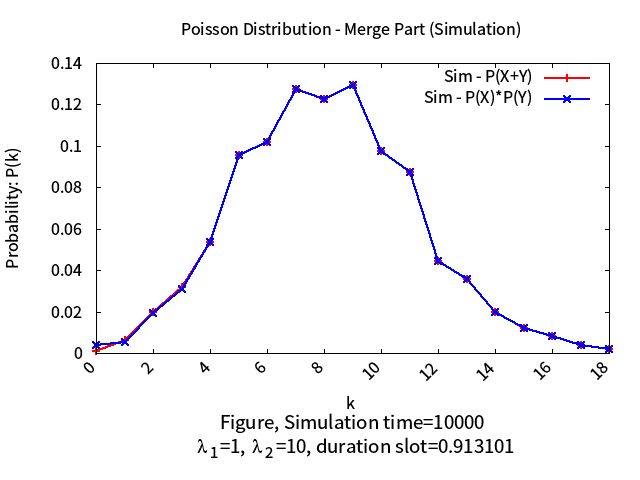
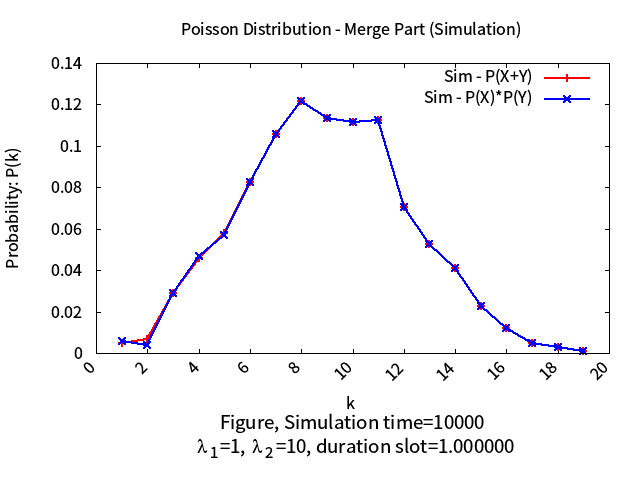
Add current work.
===
DONE:
* Adjust scale parameter.
* Add working mechanism of class event_list.
* delete dead code and comment it: part_a.cc

===
TODO:
* Pepare to rearrange /res , make image resource more readable.
* delete dead code and comment it: part_b.cc

diff --git a/poisson_distribution/part_a.cc b/poisson_distribution/part_a.cc
@@ -7,6 +7,7 @@
 #include "../utils/event.h"
 
 int main(int argc,char *argv[]) {
+  // ===================================== Getting User Input (by parse_arg) =====================================
   // create parsing args object
   parse_args *args = new parse_args();
   // set rules
@@ -16,7 +17,7 @@ int main(int argc,char *argv[]) {
   args->set_args_rules("s","simulation times","10000","int");
   // parse it!
   args->parsing(argc,argv);
-
+  // get result
   int upperbound = std::atoi(args->get_args_val("k").val.c_str());
   int lambda1 = std::atoi(args->get_args_val("1").val.c_str());
   int lambda2 = std::atoi(args->get_args_val("2").val.c_str());
@@ -44,8 +45,6 @@ int main(int argc,char *argv[]) {
     fprintf(fp,"%d %lf %lf\n",i,p_s,p_xy);
   }
 
-  // printf("%lf %lf %lf\n",poisson_rand_gen(lambda1),poisson_rand_gen(lambda2),poisson_rand_gen(lambda1+lambda2));
-
   // ===================================== Simulation Part =====================================
   int simulation_time = std::atoi(args->get_args_val("s").val.c_str());
 
@@ -57,39 +56,38 @@ int main(int argc,char *argv[]) {
   event_list *elist = new event_list();
   int rnt=simulation_time;
   FILE *fp_sim = fopen("output/part_a_sim.output","w+");
-  // init with one X, Y event
+
+  // init with one X, Y event respectively
   event_type X,Y,S;
   elist->set(0,std::string("X"));
   elist->set(0,std::string("Y"));
 
   // Scheduling S=X+Y
   while(rnt) {
-    // pop out
+    // pop out latest event 
     if(elist->get(S)) {
+      // Generate a timestamp from exponential random variable
       if(S.type=="X") {
-        // elist->set(gen->exponential(lambda1),std::string("X"));
         elist->set(dist_1(generator),std::string("X"));
-        //printf("X\n");
       } else if(S.type=="Y") {
-        // elist->set(gen->exponential(lambda2),std::string("Y"));
         elist->set(dist_2(generator),std::string("Y"));
-        //printf("Y\n");
       }
-      // record S
+      // record S, detail information please check out: https://github.com/kevinbird61/stochastic-calculus-and-probability-model/tree/master/utils#event
       elist->record(S);
       rnt--;
     }
   }
 
-  //printf("size: %d, current time: %lf\n",(int)elist->rec.size(),elist->rec.back().timestamp);
   // erase the init element
   elist->rec.erase(elist->rec.begin(),elist->rec.begin()+2);
 
   int count=0,count_x=0,count_y=0;
-  double slot=exp(-1.0/(lambda1+lambda2)),record_slot=slot,record_slot_x=slot,record_slot_y=slot;
+  double slot=1.0,record_slot=slot,record_slot_x=slot,record_slot_y=slot;
   std::map<int,int> counter,counter_x,counter_y;
 
+  // start event scheduling
   while(elist->rec.size()!=0) {
+    // fetch event from history record
     event_type tmp;
     tmp=elist->rec.front();
     elist->rec.erase(elist->rec.begin(),elist->rec.begin()+1);
@@ -101,7 +99,7 @@ int main(int argc,char *argv[]) {
       counter[count]++;
       count=0;
     }
-    // And then do X mode
+    // And then do X event
     if(tmp.type=="X") {
       if(tmp.timestamp<=record_slot_x)
         count_x++;
@@ -111,6 +109,7 @@ int main(int argc,char *argv[]) {
         count_x=0;
       }
     }
+    // Then the Y event
     if(tmp.type=="Y") {
       if(tmp.timestamp<=record_slot_y)
         count_y++;
@@ -122,6 +121,7 @@ int main(int argc,char *argv[]) {
     }
   }
 
+  // flush the rest of record
   if(count!=0)
     counter[count]++;
   if(count_x!=0)
@@ -129,32 +129,30 @@ int main(int argc,char *argv[]) {
   if(count_y!=0)
     counter_y[count_y]++;
 
+  // reset and reuse
   count=0,count_x=0,count_y=0;
 
+  // calculate total event number, X, Y respectively
   for(auto&it : counter) {
     count+=it.second;
   }
-
   for(auto&it : counter_x) {
-    //printf("X: %d %d\n",it.first,it.second);
     count_x+=it.second;
   }
-
   for(auto&it : counter_y) {
-    //printf("Y: %d %d\n",it.first,it.second);
     count_y+=it.second;
   }
 
   // Record the parameter we use for this time
   fprintf(fp_sim,"# %d %d %d %lf %d %d %d\n",simulation_time,lambda1,lambda2,slot,count,count_x,count_y);
 
+  // Base on total event queue to calculate the result
   for(auto&it : counter) {
     double p_xy=0.0;
+    // S=X+Y, X:0~it.first, Y:it.first~0
     for(int i=0; i<=it.first; i++) {
-      // S=X+Y, X:0~it.first, Y:it.first~0
       p_xy+=((float)counter_x[i]/count_x)*((float)counter_y[it.first-i]/count_y);
     }
-
     fprintf(fp_sim,"%d %lf %lf\n",it.first,(float)it.second/count,p_xy);
   }
 

diff --git a/poisson_distribution/part_b.cc b/poisson_distribution/part_b.cc
@@ -108,8 +108,7 @@ int main(int argc,char *argv[]) {
 
   // check
   int count=0,count_x=0,count_x_ind=0,count_y=0,count_y_ind=0;
-  double slot=exp(-1.0/l),slot_x=exp(-1.0/(l*p)),slot_y=exp(-1.0/(l*(1-p)))
-                                 ,record_slot=slot,record_slot_x=slot_x,record_slot_y=slot_y;
+  double slot=1.0,slot_x=1.0,slot_y=1.0,record_slot=slot,record_slot_x=slot_x,record_slot_y=slot_y;
   std::map<int,int> counter,counter_x,counter_x_ind,counter_y,counter_y_ind;
 
   while(elist->rec.size()!=0) {

diff --git a/utils/README.md b/utils/README.md
@@ -39,6 +39,10 @@ $ ./a.out
 
 * Provide class `event` for discrete event utility.
 
+* Workflow:
+
+![](../res/demo/event.png)
+
 ## rand_gen
 
 * provide random variable generation.
